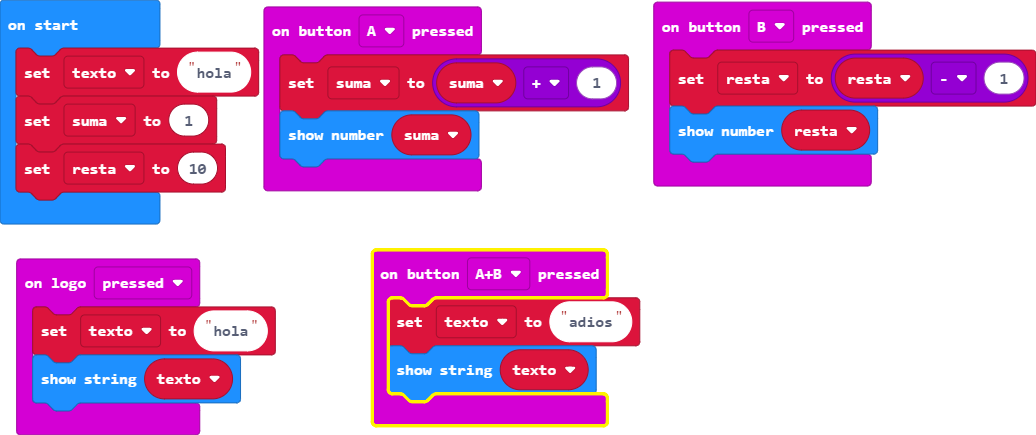
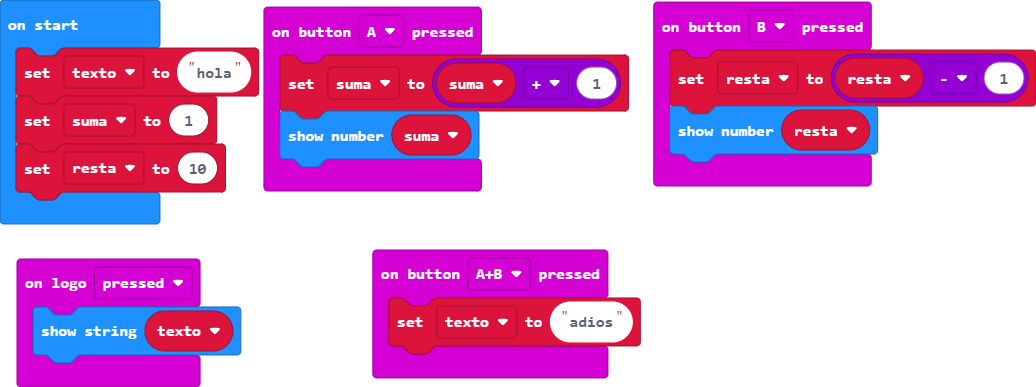
Update pxt.json, main.blocks, main.ts, main.py

Changed region(s): [[0.0, 0.0, 0.6178, 0.9612], [0.6178, 0.031, 1.0, 0.4961], [0.3398, 0.5581, 0.6178, 0.9922]]

diff --git a/main.ts b/main.ts
@@ -4,14 +4,12 @@ input.onButtonPressed(Button.A, function () {
 })
 input.onButtonPressed(Button.AB, function () {
     texto = "adios"
-    basic.showString(texto)
 })
 input.onButtonPressed(Button.B, function () {
     resta = resta - 1
     basic.showNumber(resta)
 })
 input.onLogoEvent(TouchButtonEvent.Pressed, function () {
-    texto = "hola"
     basic.showString(texto)
 })
 let resta = 0

diff --git a/main.py b/main.py
@@ -1,0 +1,30 @@
+def on_button_pressed_a():
+    global suma
+    suma = suma + 1
+    basic.show_number(suma)
+input.on_button_pressed(Button.A, on_button_pressed_a)
+
+def on_button_pressed_ab():
+    global texto
+    texto = "adios"
+    basic.show_string(texto)
+input.on_button_pressed(Button.AB, on_button_pressed_ab)
+
+def on_button_pressed_b():
+    global resta
+    resta = resta - 1
+    basic.show_number(resta)
+input.on_button_pressed(Button.B, on_button_pressed_b)
+
+def on_logo_pressed():
+    global texto
+    texto = "hola"
+    basic.show_string(texto)
+input.on_logo_event(TouchButtonEvent.PRESSED, on_logo_pressed)
+
+resta = 0
+suma = 0
+texto = ""
+texto = "hola"
+suma = 1
+resta = 10
